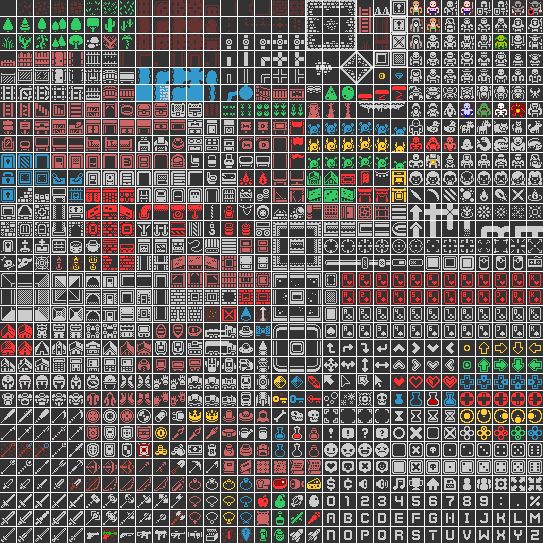
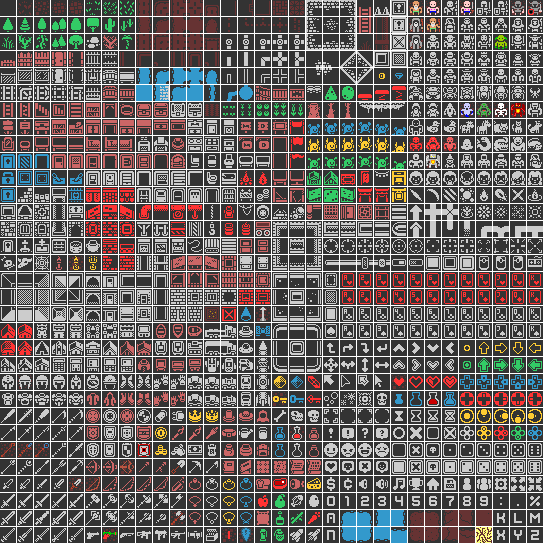
shovel, digging, lake

Changed region(s): [[0.6188, 0.9134, 0.9134, 1.0], [0.4715, 0.3831, 0.5009, 0.442]]

diff --git a/src/main/java/com/codecool/quest/logic/MapLoader.java b/src/main/java/com/codecool/quest/logic/MapLoader.java
@@ -124,7 +124,71 @@ public class MapLoader {
                             new Bow(cell);
                             break;
 
-                            // objective
+                            // lake
+                        case '0':
+                            cell.setType(CellType.CENTERWATER);
+                            break;
+                        case '1':
+                            cell.setType(CellType.TOPLEFTWATER);
+                            break;
+                        case '2':
+                            cell.setType(CellType.TOPRIGHTWATER);
+                            break;
+                        case '3':
+                            cell.setType(CellType.BOTTOMLEFTWATER);
+                            break;
+                        case '4':
+                            cell.setType(CellType.BOTTOMRIGHTWATER);
+                            break;
+                        case '5':
+                            cell.setType(CellType.TOPWATEREDGE);
+                            break;
+                        case '6':
+                            cell.setType(CellType.LEFTWATEREDGE);
+                            break;
+                        case '7':
+                            cell.setType(CellType.RIGHTWATEREDGE);
+                            break;
+                        case '8':
+                            cell.setType(CellType.BOTTOMWATEREDGE);
+                            break;
+
+                            // cave
+                        case '+':
+                            cell.setType(CellType.DARKNESS);
+                            break;
+                        case '?':
+                            cell.setType(CellType.CENTERCAVE);
+                            break;
+                        case '!':
+                            cell.setType(CellType.EXITCAVE);
+                            break;
+                        case '%':
+                            cell.setType(CellType.TOPLEFTCAVE);
+                            break;
+                        case '=':
+                            cell.setType(CellType.TOPRIGHTCAVE);
+                            break;
+                        case '(':
+                            cell.setType(CellType.BOTTOMLEFTCAVE);
+                            break;
+                        case ')':
+                            cell.setType(CellType.BOTTOMRIGHTCAVE);
+                            break;
+                        case ':':
+                            cell.setType(CellType.TOPEDGECAVE);
+                            break;
+                        case ';':
+                            cell.setType(CellType.LEFTEDGECAVE);
+                            break;
+                        case '¤':
+                            cell.setType(CellType.RIGHTEDGECAVE);
+                            break;
+                        case '×':
+                            cell.setType(CellType.BOTTOMEDGECAVE);
+                            break;
+
+                           // objective
                         case 'W':
                             cell.setType(CellType.OBJECTIVE);
                             break;

diff --git a/src/main/java/com/codecool/quest/Main.java b/src/main/java/com/codecool/quest/Main.java
@@ -42,6 +42,7 @@ import javafx.util.Duration;
 import javafx.stage.StageStyle;
 
 import java.lang.reflect.InvocationTargetException;
+import java.util.ArrayList;
 import java.util.HashMap;
 import java.util.List;
 import java.util.Optional;
@@ -72,6 +73,7 @@ public class Main extends Application {
     HashMap<String, Class<?>> itemTypes = new HashMap<>() {{
         put("KEY", Key.class);
         put("HEALTHPOTION", HealthPotion.class);
+        put("SHOVEL", Shovel.class);
     }};
     // slow moving enemies
     Timeline slowTimeline = new Timeline(
@@ -87,8 +89,10 @@ public class Main extends Application {
     );
 
     private ObservableList<String> inventoryLabels = FXCollections.observableArrayList();
+    private static ArrayList<Consumable> playerInventory = new ArrayList<>();
 
     private static String[] levels = {"/level1.txt", "/level2.txt", "/level3.txt"};
+    private static String[] caves = {"/cave1.txt", "/cave2.txt", "/cave3.txt"};
     private static int nextLevel = 0;
 
     public static void main(String[] args) {
@@ -275,7 +279,11 @@ public class Main extends Application {
     }
 
     private void itemUsed() {
-        map.getPlayer().useItem(itemTypes.get(list.getSelectionModel().getSelectedItem()));
+        Class<?> item = itemTypes.get(list.getSelectionModel().getSelectedItem());
+        map.getPlayer().useItem(item);
+        if (item == Shovel.class && map.getPlayer().isDiggable()){
+            dig();
+        }
         refresh();
         updateInventory();
     }
@@ -384,14 +392,23 @@ public class Main extends Application {
         }
         refresh();
         if (map.getPlayer().isStairs()) {
-
+            saveInventory();
             setStage(levels[++nextLevel]);
+            loadInventory();
         }
-
-        if (map.getPlayer().isObjective()) {
+        else if (map.getPlayer().isObjective()) {
             showVictoryAlert();
         }
+        else if (map.getPlayer().isExitCave()) {
+            returnToLevel();
+        }
         endGame();
+    }
+
+    private void returnToLevel() {
+        saveInventory();
+        setStage(levels[nextLevel]);
+        loadInventory();
     }
 
     private void onKeyReleased(KeyEvent keyEvent) {
@@ -407,6 +424,14 @@ public class Main extends Application {
                 map.getHeight() * Tiles.TILE_WIDTH);
         context = canvas.getGraphicsContext2D();
         bp.setCenter(canvas);
+    }
+
+    private void saveInventory() {
+        playerInventory.addAll(map.getPlayer().getInventory());
+    }
+
+    private void loadInventory() {
+        map.getPlayer().setInventory(playerInventory);
     }
 
     private void moveSlowEnemies() {
@@ -522,6 +547,12 @@ public class Main extends Application {
         updateLabels();
         updateDurabilites();
         updateNearbyEnemies();
+    }
+
+    private void dig() {
+        saveInventory();
+        setStage(caves[(int) Tiles.getRandomIntegerBetweenRange(0, caves.length - 1)]);
+        loadInventory();
     }
 
     public static void setTimeout(Runnable runnable, int delay) {

diff --git a/src/main/java/com/codecool/quest/Tiles.java b/src/main/java/com/codecool/quest/Tiles.java
@@ -38,6 +38,26 @@ public class Tiles {
         tileMap.put("objective", new Tile(12, 24));
         tileMap.put("placeholder", new Tile(12, 10));
         tileMap.put("diggable", new Tile(12, 18));
+        tileMap.put("centerwater", new Tile(8, 5));
+        tileMap.put("topleftwater", new Tile(20, 30));
+        tileMap.put("toprightwater", new Tile(21, 30));
+        tileMap.put("bottomleftwater", new Tile(20, 31));
+        tileMap.put("bottomrightwater", new Tile(21, 31));
+        tileMap.put("topwateredge", new Tile(23, 31));
+        tileMap.put("leftwateredge", new Tile(22, 30));
+        tileMap.put("rightwateredge", new Tile(23, 30));
+        tileMap.put("bottomwateredge", new Tile(22, 31));
+        tileMap.put("darkness", new Tile(0, 0));
+        tileMap.put("centercave", new Tile(28, 30));
+        tileMap.put("exitcave", new Tile(28, 31));
+        tileMap.put("topleftcave", new Tile(24, 30));
+        tileMap.put("toprightcave", new Tile(25, 30));
+        tileMap.put("bottomleftcave", new Tile(24, 31));
+        tileMap.put("bottomrightcave", new Tile(25, 31));
+        tileMap.put("topedgecave", new Tile(27, 31));
+        tileMap.put("leftedgecave", new Tile(26, 30));
+        tileMap.put("rightedgecave", new Tile(27, 30));
+        tileMap.put("bottomedgecave", new Tile(26, 31));
 
         //CHARACTERS
         tileMap.put("warrior", new Tile(25, 0));

diff --git a/src/main/java/com/codecool/quest/logic/actors/Player.java b/src/main/java/com/codecool/quest/logic/actors/Player.java
@@ -1,6 +1,6 @@
 package com.codecool.quest.logic.actors;
 
-import com.codecool.quest.Main;
+import com.codecool.quest.Main.*;
 import com.codecool.quest.logic.Cell;
 import com.codecool.quest.logic.items.*;
 
@@ -81,6 +81,11 @@ public abstract class Player extends Actor {
         return inventory;
     }
 
+    public void setInventory(List<Consumable> inventory) {
+        this.inventory = inventory;
+    }
+
+
     public Consumable inventoryGetItem(Class<?> type) {
         for (Consumable item : getInventory()) {
             if (item.getClass().equals(type)) return item;
@@ -121,6 +126,14 @@ public abstract class Player extends Actor {
         if (this.hasItem(type)) {
             inventoryGetItem(type).use(this);
         }
+    }
+
+    public boolean isExitCave() {
+        return this.getCell().getTileName().equals("exitcave");
+    }
+
+    public boolean isDiggable() {
+        return this.getCell().getTileName().equals("diggable");
     }
 
     public boolean isStairs() {

diff --git a/src/main/java/com/codecool/quest/logic/CellType.java b/src/main/java/com/codecool/quest/logic/CellType.java
@@ -11,6 +11,26 @@ public enum CellType {
     OBJECTIVE("objective"),
     PLACEHOLDER("placeholder"),
     DIGGABLE("diggable"),
+    CENTERWATER("centerwater"),
+    TOPLEFTWATER("topleftwater"),
+    TOPRIGHTWATER("toprightwater"),
+    BOTTOMLEFTWATER("bottomleftwater"),
+    BOTTOMRIGHTWATER("bottomrightwater"),
+    TOPWATEREDGE("topwateredge"),
+    LEFTWATEREDGE("leftwateredge"),
+    RIGHTWATEREDGE("rightwateredge"),
+    BOTTOMWATEREDGE("bottomwateredge"),
+    DARKNESS("darkness"),
+    CENTERCAVE("centercave"),
+    EXITCAVE("exitcave"),
+    TOPLEFTCAVE("topleftcave"),
+    TOPRIGHTCAVE("toprightcave"),
+    BOTTOMLEFTCAVE("bottomleftcave"),
+    BOTTOMRIGHTCAVE("bottomrightcave"),
+    TOPEDGECAVE("topedgecave"),
+    LEFTEDGECAVE("leftedgecave"),
+    RIGHTEDGECAVE("rightedgecave"),
+    BOTTOMEDGECAVE("bottomedgecave"),
     WALL("wall");
 
     private final String tileName;

diff --git a/src/main/java/com/codecool/quest/logic/Cell.java b/src/main/java/com/codecool/quest/logic/Cell.java
@@ -24,7 +24,15 @@ public class Cell implements Drawable {
     public boolean isObstacle() {
         return this.getTileName().equals("wall")
                 || this.getActor() != null
-                || this.getTileName().equals("closeddoor");
+                || this.getTileName().equals("closeddoor")
+                || this.getTileName().equals("topedgecave")
+                || this.getTileName().equals("leftedgecave")
+                || this.getTileName().equals("rightedgecave")
+                || this.getTileName().equals("bottomedgecave")
+                || this.getTileName().equals("topleftgecave")
+                || this.getTileName().equals("toprightcave")
+                || this.getTileName().equals("bottomleftcave")
+                || this.getTileName().equals("bottomrightcave");
     }
 
     public void setItem(Item item) {

diff --git a/src/main/java/com/codecool/quest/logic/items/Shovel.java b/src/main/java/com/codecool/quest/logic/items/Shovel.java
@@ -10,7 +10,9 @@ public class Shovel extends Consumable {
 
     @Override
     public void use(Player player) {
-        player.removeFromInventory(this);
+        if(player.getCell().getTileName().equals("diggable")) {
+            player.removeFromInventory(this);
+        }
     }
 
     @Override

diff --git a/src/main/java/com/codecool/quest/logic/GameMap.java b/src/main/java/com/codecool/quest/logic/GameMap.java
@@ -81,8 +81,6 @@ public class GameMap {
         return player;
     }
 
-    public Skeleton getSkeleton() { return skeleton; }
-
     public int getWidth() {
         return width;
     }
